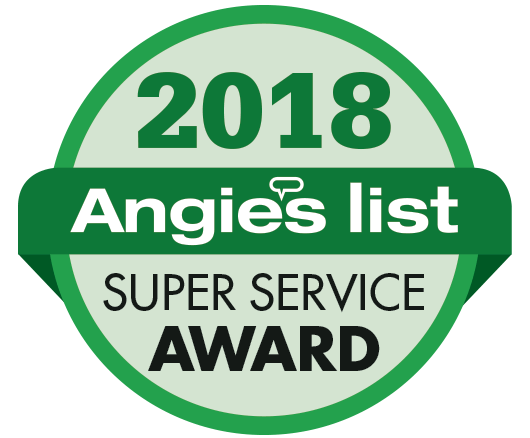
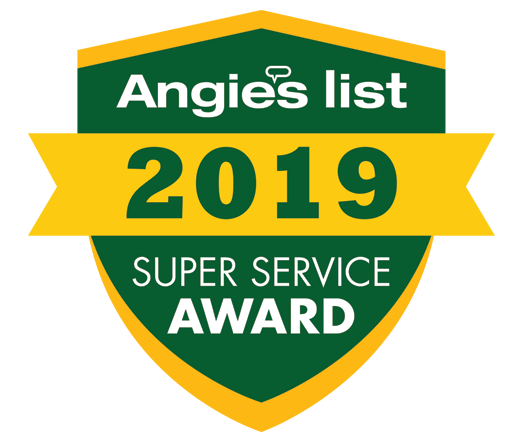
adding new angies list image and showing header image on mobile

diff --git a/css/style.css b/css/style.css
@@ -89,16 +89,6 @@ h3, h4, a {
 	width: 100%;
 }
 
-@media screen and (max-width: 522px) {
-	#img {
-		margin-top: 81px;
-	}
-
-	#img img {
-		display: none;
-	}
-}
-
 .ribbon {
 	width: 919px;
 	position: relative;
